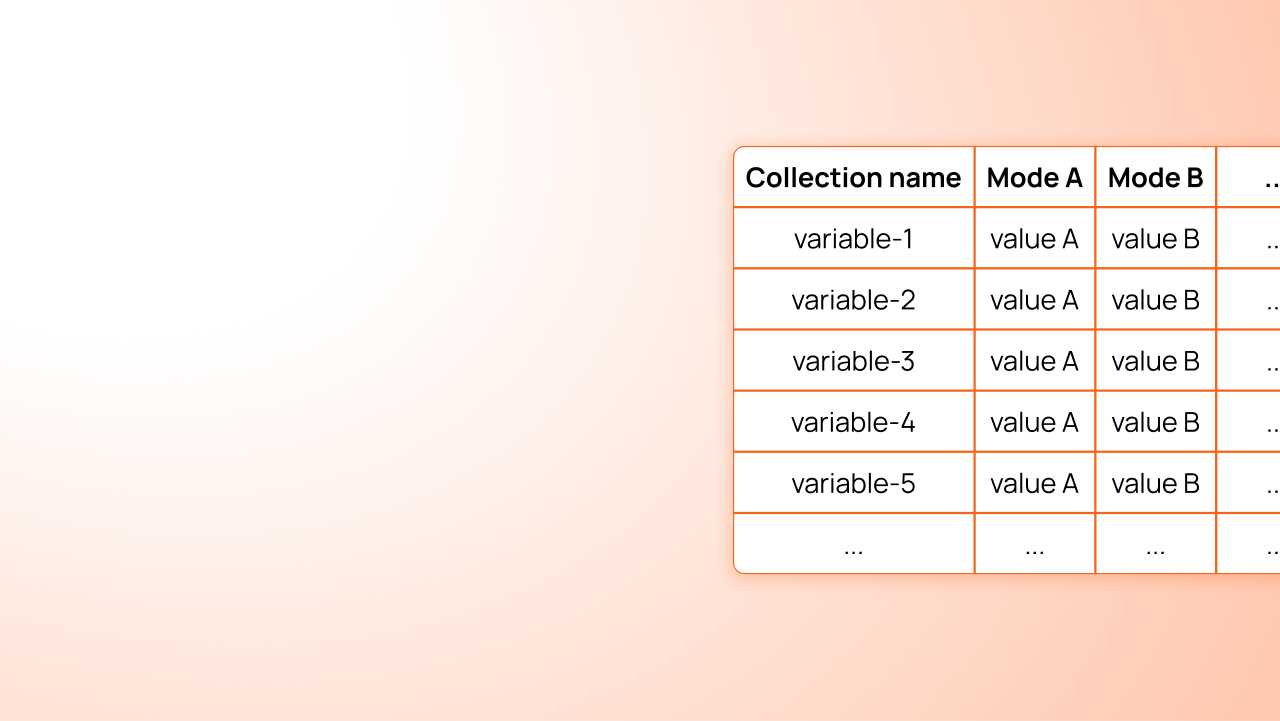
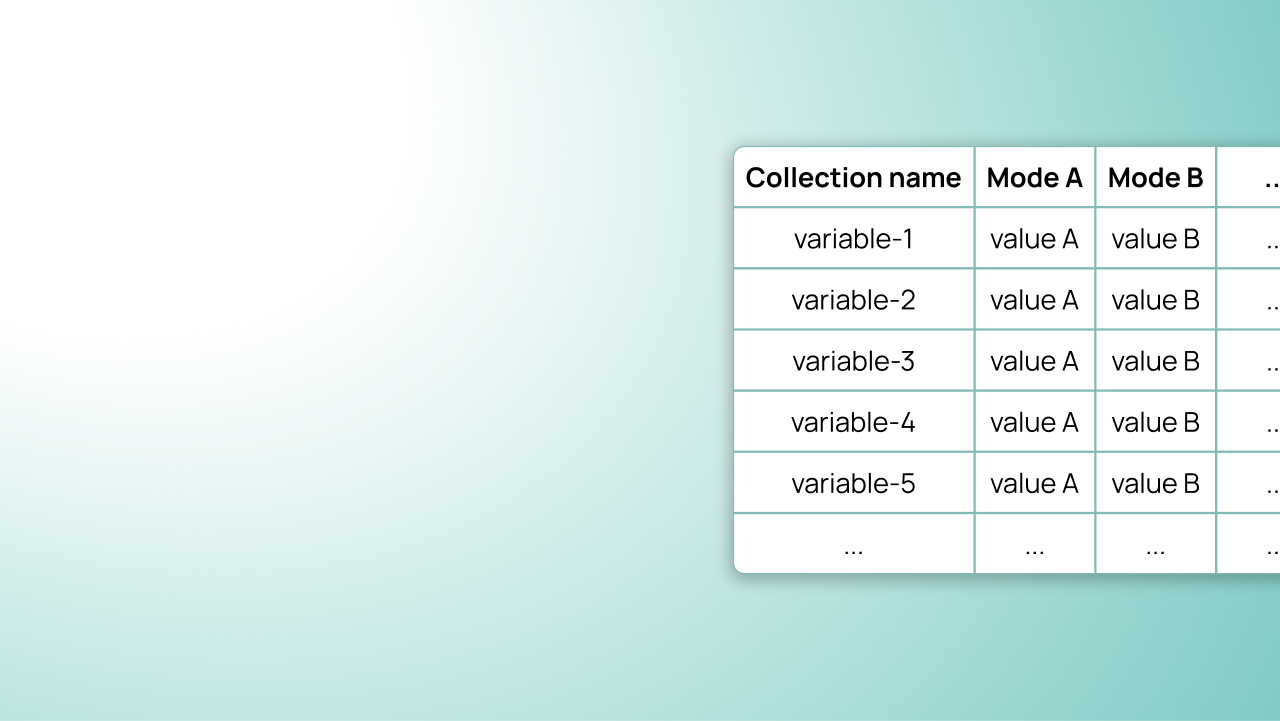
Balance colours

diff --git a/pages/content.js b/pages/content.js
@@ -51,17 +51,17 @@ function Content() {
                         /> */}
                         <h4 className="text-2xl text-center text-primary-700 mb-6">In and around design</h4>
                         <div className="mb-12 mx-4 md:mx-32 grid gap-4 grid-cols-1 sm:grid-cols-2">
-                            <ContentCard cardNumber={4} bgColour="primary" />
-                            <ContentCard cardNumber={5} bgColour="primary" />
-                            <ContentCard cardNumber={6} bgColour="primary" />
-                            <ContentCard cardNumber={7} bgColour="primary" />
+                            <ContentCard cardNumber={4} bgColour="secondary" />
+                            <ContentCard cardNumber={5} bgColour="secondary" />
+                            <ContentCard cardNumber={6} bgColour="secondary" />
+                            <ContentCard cardNumber={7} bgColour="secondary" />
                         </div>
 
                         <h4 className="text-2xl text-center text-primary-700 mb-6">Everything else</h4>
                         <div className="mb-12 mx-4 md:mx-32 grid gap-4 grid-cols-1 sm:grid-cols-2">
-                            <ContentCard cardNumber={1} bgColour="seconda0" />
-                            <ContentCard cardNumber={2} bgColour="seconda0" />
-                            <ContentCard cardNumber={3} bgColour="seconda0" />
+                            <ContentCard cardNumber={1} bgColour="primary" />
+                            <ContentCard cardNumber={2} bgColour="primary" />
+                            <ContentCard cardNumber={3} bgColour="primary" />
                         </div>
                     </div>
 

diff --git a/components/ContentCard.jsx b/components/ContentCard.jsx
@@ -11,7 +11,7 @@ function ContentCard(props) {
     return (
         <>
             <a href={contentCardData[props.cardNumber - 1].link.linkURL} target="_blank" referrerPolicy="no-referrer" className="h-full">
-                <div ref={ref} className={`flex flex-col justify-between ${props.bgColour == "primary" ? `bg-primary-100 hover:bg-primary-200` : `bg-secondary-50 hover:bg-secondary-100`} p-8 rounded-lg shadow hover:shadow-lg border-2 border-transparent transition duration-500 h-full ${inView && `animate__animated animate__zoomIn`} `}>
+                <div ref={ref} className={`flex flex-col justify-between ${props.bgColour == "primary" ? `bg-primary-100 hover:bg-primary-200/70` : `bg-secondary-100 hover:bg-secondary-200/70`} p-8 rounded-lg shadow hover:shadow-lg border-2 border-transparent transition duration-500 h-full ${inView && `animate__animated animate__zoomIn`} `}>
                     <div className="mb-8">
                         <p className="!text-4xl text-secondary-300 material-icons-round">{contentCardData[props.cardNumber - 1].cardIcon}</p>
                         <p className="font-bold">{contentCardData[props.cardNumber - 1].cardTitle}</p>

diff --git a/components/CharacterCard.jsx b/components/CharacterCard.jsx
@@ -11,7 +11,7 @@ function CardContent(props) {
         <div
             className={`relative shadow animate__animated animate__bounceInUp transition-all ease-in duration-300 p-8 rounded-lg border border-gray-200 
             ${props.withButton && `hover:shadow-lg hover:z-10`}
-            ${props.heroCard ? `md:flex gap-10 items-center bg-primary-100 hover:bg-primary-200` : `flex flex-col justify-center animate__delay-1s bg-secondary-50 hover:bg-secondary-100`}`}
+            ${props.heroCard ? `md:flex gap-10 items-center bg-secondary-100 hover:bg-secondary-200/70` : `flex flex-col justify-center animate__delay-1s  bg-primary-100 hover:bg-primary-200/70`}`}
             onClick={() => {
                 if (!props.withButton)
                     setIsClicked(!isClicked)
